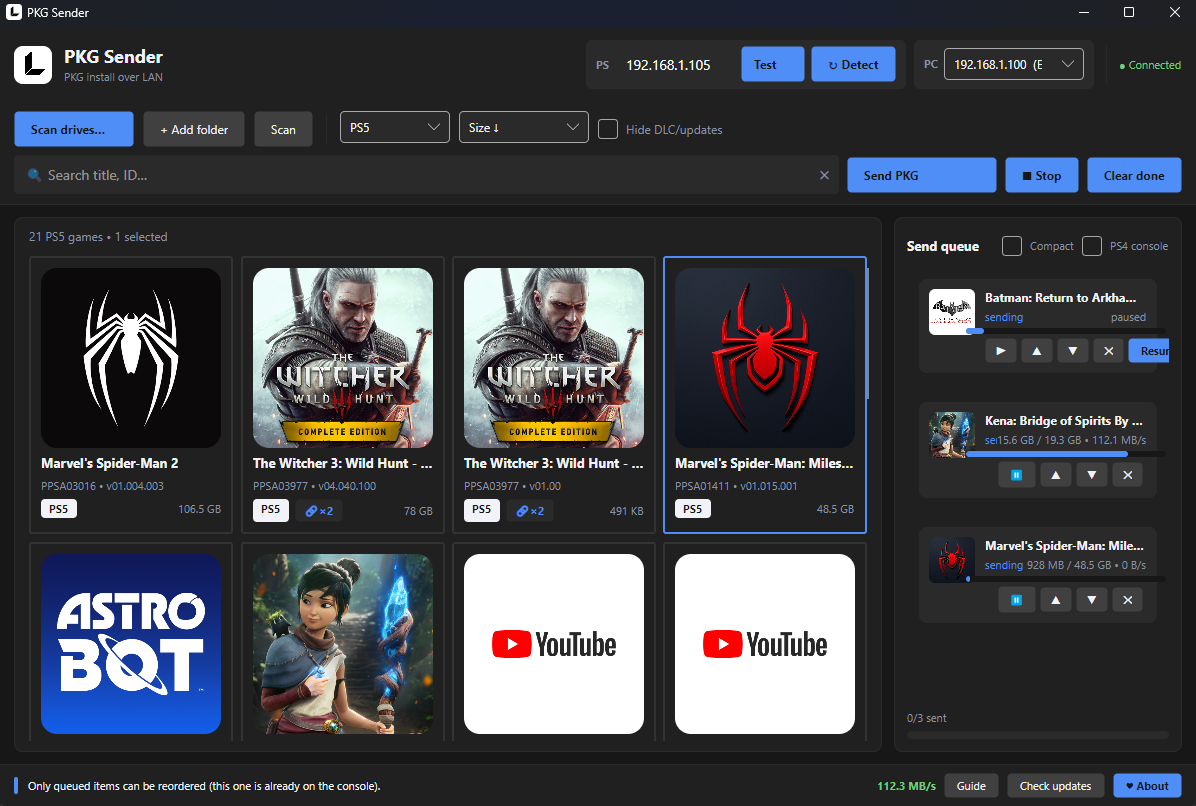
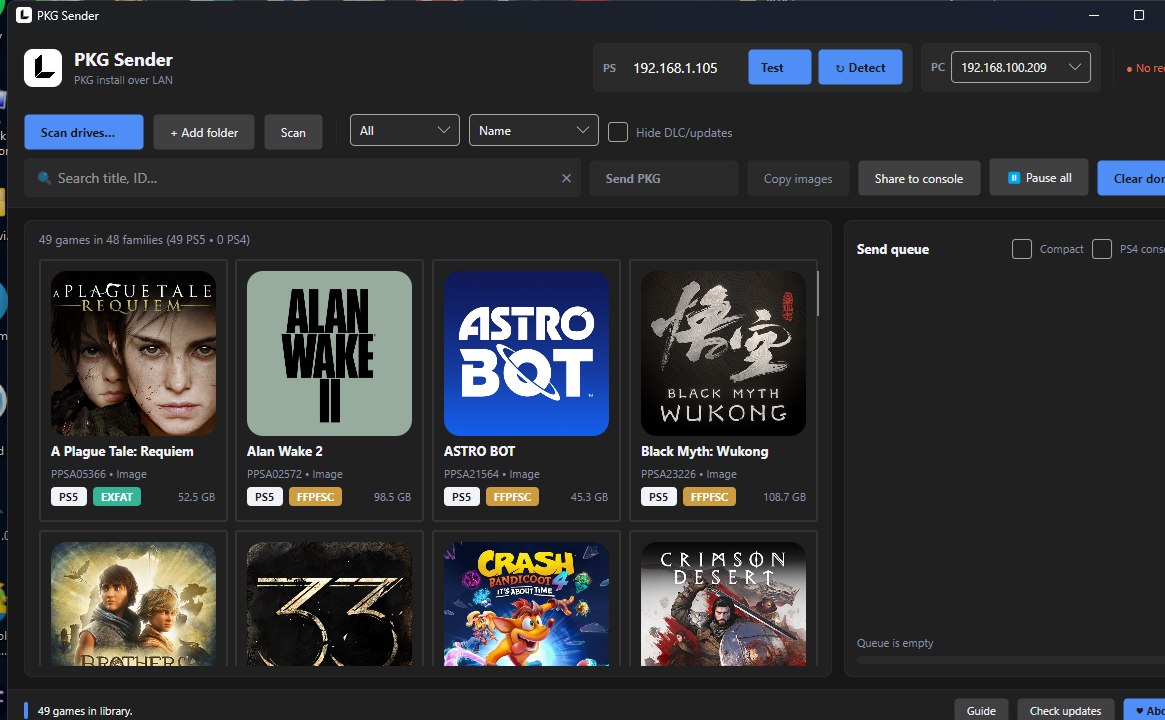
README: separate PS5/PS4 tutorials, fresh screenshot, current API table

diff --git a/README.md b/README.md
@@ -1,25 +1,77 @@
 # PS4 PS5 PKG Sender
 
-**PKG Sender** installs PlayStation **PKG** files over LAN: pick games on your PC, they queue up and install on the console. No USB juggling, no manual IP typing. Yes — PS5 **PKG** games install fine, no FPKG patching needed on your side.
-
-> **Status:** PS5 installs work right now. PS4 support is being fixed (connection issues under investigation) — coming back soon.
+**PKG Sender** installs PlayStation games over LAN from your PC: pick games, they queue up and install on the console. No USB juggling, no manual IP typing. PS5 **PKG** games install fine, no FPKG patching needed on your side. Disc images (`.exfat` / `.ffpfsc` / `.ffpkg`) copy straight to `/data/homebrew`.
 
 ## Download
 
-Get `PkgSender-Setup-X.Y.Z.exe` from [Releases](../../releases) — self-contained, no .NET needed, no admin needed.
-
-## Setup
-
-1. Jailbreak your PS5 and send `pkg-receiver.elf` (ships inside the install folder). Wait for the console toast *listening on port 12800*.
-2. Put the console on the same network as this PC (Wi-Fi or LAN). The console itself needs no internet.
-3. Open PKG Sender — it finds the console by itself (receiver beacon first, LAN sweep as fallback). If the console got a new DHCP address, it asks: *switch to it?*
-4. Press **Scan drives…** (or **+ Add folder**), select games, press **Send PKG**.
+Get `PkgSender-Setup-X.Y.Z.exe` from [Releases](../../releases) — self-contained, no .NET needed, no admin needed. The matching `pkg-receiver.elf` is attached to the same release.
 
 On first launch the About window opens (support links live there).
 
-## LAN connection
+---
 
-PKG Sender connects to your PS5/PS4 in two ways.
+## Tutorial — PS5
+
+### 1. Start the receiver on the console
+
+1. Jailbreak your PS5 and send `pkg-receiver.elf` (it ships inside the PC install folder).
+2. Wait for the console toast *listening on port 12800*.
+3. On first run the receiver also installs a **pkg remote installer** shortcut on the PS5 home screen (Media category, `PKGS12800`).
+
+### 2. Connect PC and console
+
+Put the console on the same network as this PC (Wi-Fi or LAN). The console itself needs no internet. See [LAN connection](#lan-connection) below for the direct-cable option.
+
+Open PKG Sender — it finds the console by itself (receiver beacon first, LAN sweep as fallback). If the console got a new DHCP address, it asks: *switch to it?* Press **Test** to verify (status dot goes green).
+
+### 3. Install a PKG game
+
+1. Press **Scan drives…** (or **+ Add folder**, or just drag files/folders onto the window), select games, press **Send PKG**.
+2. Updates and DLCs stay glued to their base game (exact Title ID — regions stay separate). Click the 🔗 chip on a card to show only that family.
+3. Watch the send queue: per-file progress, pause, reorder, retry. Tick **PS4 console** only for PS4 targets (see below) — PS5 queues natively.
+
+### 4. Install from the console browser (no PC walking)
+
+1. In PKG Sender press **Share to console**. The status bar shows the catalog URL (`http://<pc-ip>:9898/catalog`).
+2. On the PS5, open the **pkg remote installer** home-screen shortcut (or browse to `http://<console-ip>:12800/`).
+3. **Games** tab: base games with covers; click one for details, install updates/DLCs individually or everything at once with **Install all**.
+4. **Images** tab: disc images with a **Copy to homebrew** button each. Copy progress (percent + speed) shows above the list with **Pause** / **Cancel copy** — works even for copies started from the PC app.
+5. The header shows `page X • receiver Y` — if they differ, resend the newest ELF.
+
+### 5. Copy a disc image (PC side)
+
+Select `.exfat` / `.ffpkg` / `.ffpfsc` rows and press **Copy images** — they land in `/data/homebrew`. Each copy gets a queue row with live progress; ⏸ pauses the receiver, ✕ cancels it for real (partial file stays for resume).
+
+---
+
+## Tutorial — PS4
+
+### 1. Prepare the console
+
+Jailbreak the PS4 and start **one** of these (the app auto-detects in this order):
+
+1. **Remote Package Installer (RPI)** — serves its API on port `12800`.
+2. **etaHEN** — DPIv2 API on port `12800`.
+3. **GoldHEN with Payload Server enabled** — ports `9090` / `9021` / `9020`.
+
+### 2. Connect and test
+
+Same network as the PC (see [LAN connection](#lan-connection)). In PKG Sender type the console IP and press **Test** — it reports which mode it found (`RPI`, `etaHEN`, or `GoldHEN`).
+
+### 3. Install a PKG game
+
+1. Scan / add folder / drag & drop, select the game, press **Send PKG**.
+2. Tick **PS4 console** above the queue — PS4 installs go strictly one-by-one (a PS5 queues natively, a PS4 does not).
+3. What happens per mode:
+   - **RPI**: the PC sends the file URL to `http://<ps4>:12800/api/install`; the PS4 downloads and installs it itself.
+   - **etaHEN**: direct multipart upload to the console.
+   - **GoldHEN**: payload injection over the binloader ports, then install.
+
+No FTP is involved on either console — all transfers are plain HTTP from the PC's file server (port `9898`).
+
+---
+
+## LAN connection
 
 ### Method 1 — Through a router
 
@@ -35,7 +87,7 @@ You don't need to configure IP addresses manually.
 
 1. Connect your PC to the router using Ethernet or Wi-Fi.
 2. Connect your PS5/PS4 to the same router.
-3. Start the PKG Receiver on your console.
+3. Start the receiver (PS5) / RPI-HEN (PS4) on the console.
 4. Open PKG Sender — it discovers the console on your local network automatically.
 
 ### Method 2 — Direct Ethernet connection
@@ -56,7 +108,7 @@ Because there is no router providing DHCP, you must manually assign an IP addres
 - Gateway: leave empty
 - DNS: leave empty
 
-**2. Set the PS5/PS4 IP address.** Configure the console's Ethernet connection with:
+**2. Set the console IP address.** Configure the console's Ethernet connection with:
 
 - IP address: `192.168.10.2`
 - Subnet mask: `255.255.255.0`
@@ -65,24 +117,27 @@ Because there is no router providing DHCP, you must manually assign an IP addres
 
 The important part is that both devices are on the same subnet (`255.255.255.0`).
 
-**3. Start the PKG Receiver** on the console, then launch PKG Sender on your PC. In the app pick the PC address from the PC box, type the console IP, press **Test**.
+**3. Start the receiver** on the console, then launch PKG Sender on your PC. In the app pick the PC address from the PC box, type the console IP, press **Test**.
 
 > ⚠ Do NOT leave a direct cable on automatic IP assignment. Windows or the console may fall back to a `169.254.x.x` address when no DHCP server is available — PKG Sender ignores these automatic link-local addresses on purpose. If the cable is plugged in but nothing is found, this is almost always the cause.
 
-## PS4
-
-Works with a jailbroken PS4 running a compatible package receiver (listening on port 12800): Test should go green and Send PKG works. Tick **PS4 console** above the queue — PS4 installs go strictly one-by-one (PS5 queues natively).
+---
 
 ## Features
 
-- Zero-config networking: auto PC address, console auto-detect with switch prompt, live status dot, re-scan (↻) button
+- Zero-config networking: auto PC address, console auto-detect with switch prompt, live status dot, re-scan (↻ Detect) button
 - Library: cover art, Title ID, version, size; filter PS5/PS4, sort name/size, search with in-bar clear (✕)
+- Add games three ways: **Scan drives…**, **+ Add folder**, or **drag & drop** files/folders onto the window
 - Family linking: updates and DLCs stay glued to their base game (exact Title ID — regions stay separate); 🔗 chip shows the family, click to filter, click again to go back
-- Send queue with per-file progress, resume, stop, clear-done (orphaned rows included)
+- Send queue with per-file progress, pause, reorder, retry, clear-done (orphaned rows included)
+- Image copies with live progress, receiver-side pause, and real cancel (partial kept for resume)
+- Console browser page (PS5): logo header, 5-column grid, platform badges, details modal, install-all queue, copy progress with pause/cancel
 - Self-updating: silent check at startup, footer button lights up on new release (off switch in About for offline PCs)
 - Guide window with setup + troubleshooting, first-run About
 
-## Receiver API
+---
+
+## Receiver API (PS5)
 
 The receiver listens on `http://<console-ip>:12800`. File paths are jailed
 under `/data/homebrew`. This API is not stable and may change between versions.
@@ -90,49 +145,51 @@ under `/data/homebrew`. This API is not stable and may change between versions.
 | Method | Path | Input | Reply |
 | ------ | ---- | ----- | ----- |
 | GET | `/api` | — | probe (online check, no action) |
-| GET | `/api/status` | — | `{"busy":bool,"active":N}` |
+| GET | `/api/status` | — | `{"busy":bool,"active":N,"pull":bool,"pullName","pullGot","pullWant","pullPaused":bool}` |
 | GET | `/api/pc` | — | `{"pc":"1.2.3.4","age":N}` (last PC announce, `age` -1 = never) |
+| GET | `/api/version` | — | `{"build":"..."}` (compare with the page header) |
+| GET | `/api/space` | — | `{"free":N,"total":N}` (`/data` bytes) |
+| GET | `/logo.png`, `/favicon.ico` | — | sender logo PNG |
 | POST | `/api/install` | `{"packages":["<url>"],"name":"...","icon_url":"..."}` (`name`/`icon_url` optional) | `{"status":"success"}` or `{"status":"fail",...}` |
-| GET | `/install?url=` | PKG URL as query arg | starts install, plain-text reply |
+| GET | `/install?url=` | PKG URL as query arg (+`name`, `+icon`) | starts install, plain-text reply |
 | GET | `/api/files/stat?path=` | remote path | `{"exists":bool,"size":N}` |
-| POST | `/api/files/mkdir` | `{"path":"..."}` | `{"ok":true}` or `error:...` |
-| POST | `/api/files/write?path=&offset=` | raw bytes, offset in bytes | `{"ok":true}` or `error:...` |
-| POST | `/api/files/done` | `{"path":"...","size":N}` (verifies size) | `{"ok":true,"size":N}` or `error:size mismatch` |
-| POST | `/api/files/pull` | `{"url":"http://pc:9898/pkg/id","path":"/data/homebrew/f.pkg"}` (receiver downloads it itself) | `{"ok":true,"started":true}` + console toast on finish |
-| GET | `/api/fs/list?path=` | path under `/data` | `{"path","truncated":bool,"entries":[{"name","dir":bool,"size"}]}` |
-| POST | `/api/fs/delete` | `{"path":"..."}` (files + empty dirs only, never `/data` itself) | `{"ok":true}` or `error:...` |
+| POST | `/api/files/pull` | `{"url":"http://pc:9898/pkg/id","path":"/data/homebrew/f.pkg","mode":"overwrite"/"resume"}` | `{"ok":true,"started":true}` + console toast on finish |
+| POST | `/api/pull/pause` | `{"paused":1/0}` | `{"ok":true,"paused":bool}` |
+| POST | `/api/pull/cancel` | `{}` | `{"ok":true,"cancelled":true}` (partial stays for resume) |
+
+File-explorer endpoints (`/api/fs/*`, Files tab) are temporarily disabled in the receiver.
 
 Discovery: the receiver broadcasts `PKGSENDER v1` to UDP `255.255.255.255:12801`
 every 3 seconds.
 
-## Console library (pkg remote installer)
+## Console library (pkg remote installer, PS5)
 
 Browse and install the scanned PC library from the console's own browser —
 no need to walk back to the PC:
 
-1. In PKG Sender, scan your folders, then tick **Publish library**. The status
-   bar shows the catalog URL (`http://<pc-ip>:9898/catalog`). While published,
+1. In PKG Sender, scan your folders, then press **Share to console**. The status
+   bar shows the catalog URL (`http://<pc-ip>:9898/catalog`). While shared,
    the PC also broadcasts `PKGSENDER-PC <pc-ip>:9898` to UDP `255.255.255.255:12802`
    every 3 seconds, so the console finds it automatically (no manual IP entry).
 2. On first run the receiver installs a **pkg remote installer** shortcut on
    the PS5 home screen (Media category, `PKGS12800`). Open it — or browse to
    `http://<console-ip>:12800/` manually.
-3. **Library tab**: base games only (alphabetical, with covers, sizes and IDs);
-   click a base game to expand its updates/DLCs, each with its own Install
-   button. Search filters by title or Title ID; chips filter PS5/PS4.
-   The **Games/Images** switch shows disc images (exfat/ffpfsc/ffpkg) with a
-   **Copy to homebrew** button each (copies into `/data/homebrew`, skips if
-   the same size is already there).
-4. **Files tab**: browse `/data` on the console (breadcrumb + Up), create
-   folders, delete files/empty folders (with confirm). No recursive delete.
+3. **Games tab**: base games only (alphabetical, with covers, sizes and IDs);
+   click a base game for details and its updates/DLCs, each with its own Install
+   button, or **Install all** for the whole family. Search filters by title or
+   Title ID; chips filter PS5/PS4.
+4. The **Images** tab shows disc images (exfat/ffpfsc/ffpkg) with a
+   **Copy to homebrew** button each, plus live progress with Pause/Cancel.
 
-Published endpoints on the PC file server (`:9898`, PKG only, CORS-open):
+Published endpoints on the PC file server (`:9898`, CORS-open):
 
 | Method | Path | Reply |
 | ------ | ---- | ----- |
 | GET | `/catalog` | `[{"id","title","titleId","version","size","sizeText","role","familyKey","platform","format","file","hasIcon"}]` (`role` = Game/Patch/DLC/Image) |
 | GET | `/icon/{id}` | cover PNG (`image/png`) |
-| GET | `/pkg/{id}` | PKG bytes (range-capable, same as pushes use) |
+| GET | `/pkg/{id}` | file bytes (range-capable, same as pushes use) |
+
+---
 
 ## Credits
 
@@ -142,15 +199,6 @@ Published endpoints on the PC file server (`:9898`, PKG only, CORS-open):
 - [seregonwar/zftpd](https://github.com/seregonwar/zftpd) (MIT) — pointed at
   PS5 TCP socket-buffer tuning as the fix for slow bulk transfers; our
   pull-downloader buffering was rewritten from scratch, no code copied.
-
-Example (check, upload one chunk at offset 0, finalize):
-
-```sh
-curl "http://<console-ip>:12800/api/files/stat?path=mygame.pkg"
-curl -X POST --data-binary @chunk0.bin "http://<console-ip>:12800/api/files/write?path=mygame.pkg&offset=0"
-curl -X POST -H "Content-Type: application/json" \
-  -d '{"path":"mygame.pkg","size":123456}' http://<console-ip>:12800/api/files/done
-```
 
 ## Screenshots
 
@@ -168,10 +216,11 @@ If you enjoy what I build and want to support my work, you can donate — every 
 
 ## Troubleshooting
 
-- **● No receiver (red)** — the elf isn't running on the console. Send it again.
+- **● No receiver (red)** — the elf isn't running on the console. Send it again. On the console page, `page X • receiver Y` mismatch means the same thing.
 - **○ No network (gray)** — this PC has no active LAN/Wi-Fi.
 - **Push goes through but download never starts** — allow inbound TCP port 9898 in Windows Firewall (the installer adds this rule plus UDP 12801 for beacons).
-- **Console IP keeps changing (DHCP)** — reopen the app or hit ↻; it offers the new address.
+- **Console IP keeps changing (DHCP)** — reopen the app or hit Detect; it offers the new address.
+- **Image cards without covers** — the header bridge needs `pkgviewer.py` next to the installed app (ships since 1.2.5) plus a Python with `mkpfs`; rescan after installing.
 
 ## Build from source
 
@@ -181,7 +230,7 @@ Needs .NET 8 SDK (+ Inno Setup 6 for the installer):
 Build-Release.bat
 ```
 
-This publishes a self-contained single-file build to `dist\` and, if `iscc` is available, produces `PkgSender-Setup-X.Y.Z.exe`. The PS5 receiver rebuilds with the ps5-payload-sdk toolchain:
+This publishes a self-contained single-file build to `dist\`, copies in `pkg-receiver.elf` + `pkgviewer.py`, and, if `iscc` is available, produces `PkgSender-Setup-X.Y.Z.exe`. The PS5 receiver rebuilds with the ps5-payload-sdk toolchain:
 
 ```sh
 cd payload && make PS5_PAYLOAD_SDK=/path/to/ps5-payload-sdk
